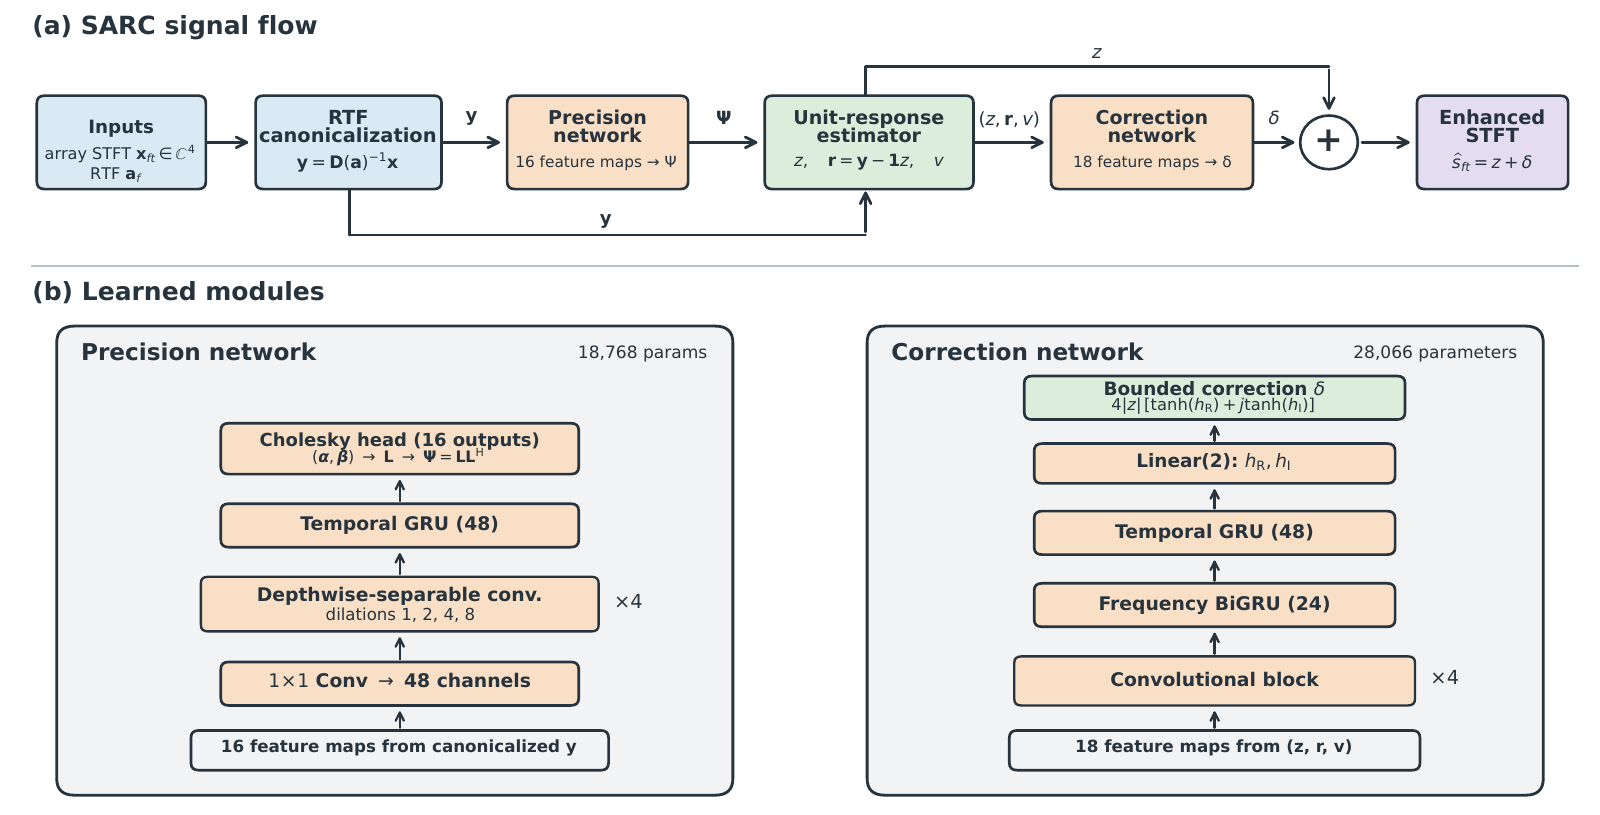
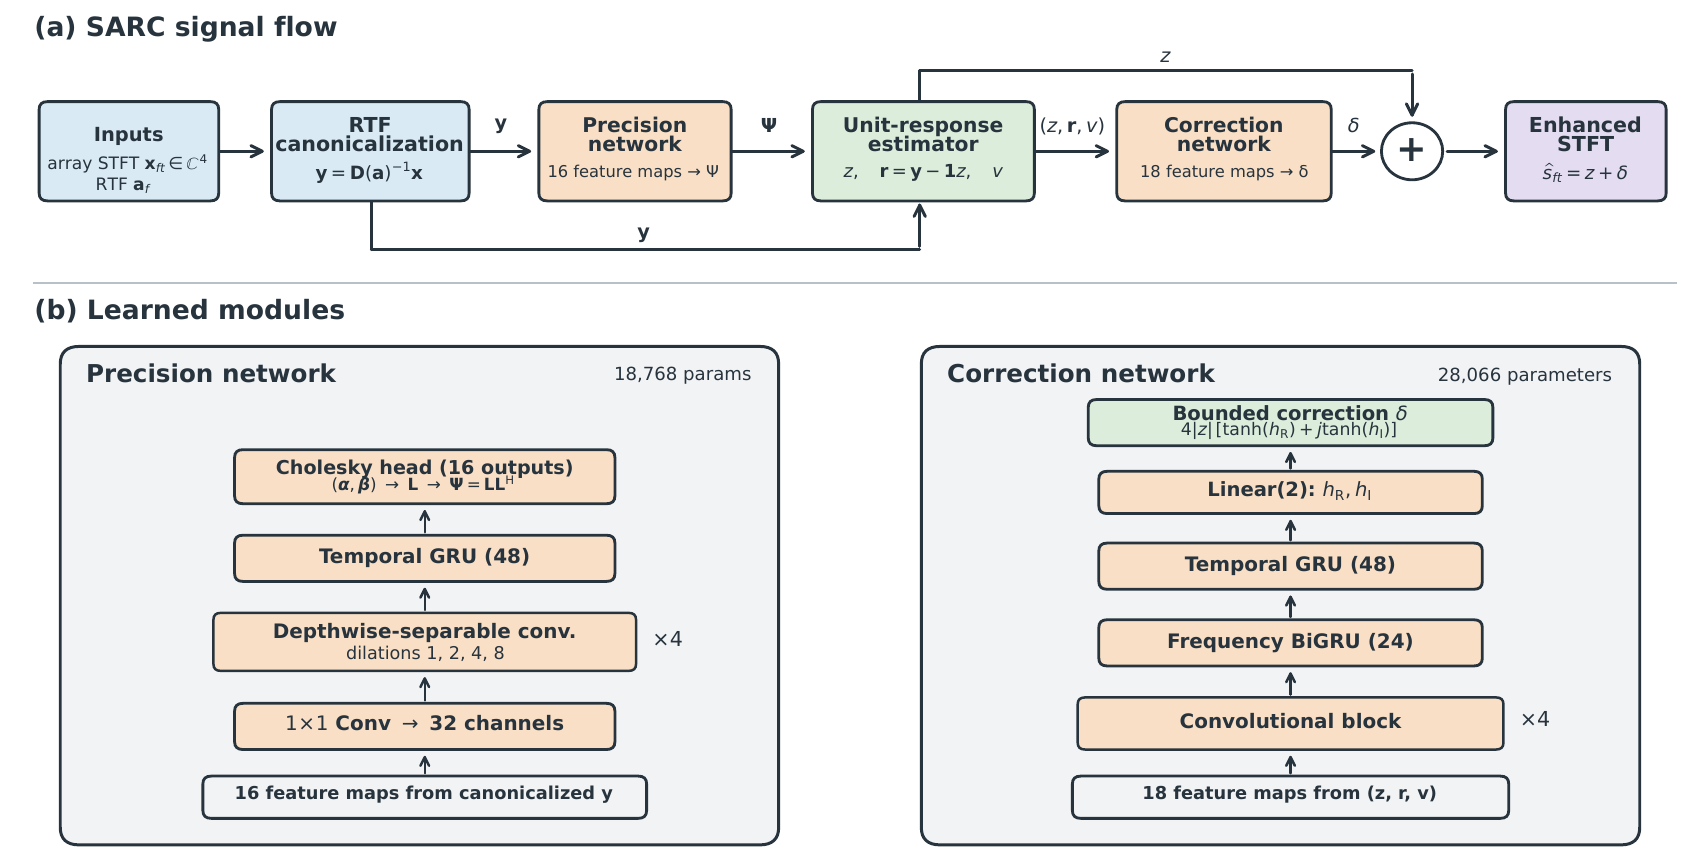
Clarify SARC architecture and research release; validate checkpoint and training interfaces

diff --git a/tests/test_release.py b/tests/test_release.py
@@ -1,0 +1,90 @@
+"""Public-release checks; no private audio or calibration files are required."""
+import hashlib
+import importlib.util
+import io
+import json
+from contextlib import redirect_stderr
+from pathlib import Path
+import unittest
+from unittest.mock import patch
+
+import torch
+
+from sarc import SARC, STFTConfig, load_sarc, make_window, stft, istft
+
+ROOT = Path(__file__).resolve().parents[1]
+
+
+class TestRelease(unittest.TestCase):
+    @classmethod
+    def setUpClass(cls):
+        cls.threads = torch.get_num_threads()
+        torch.set_num_threads(1)
+
+    @classmethod
+    def tearDownClass(cls):
+        torch.set_num_threads(cls.threads)
+
+    def test_exact_architecture(self):
+        model = SARC(torch.ones(257, 4, dtype=torch.complex64))
+        spatial, correction = model.spatial_model, model.score_model
+        self.assertEqual(spatial.input_projection.weight.shape, (32, 16, 1, 1))
+        self.assertEqual(spatial.gru.hidden_size, 48)
+        self.assertEqual(spatial.parameter_count(), 18768)
+        self.assertEqual(sum(p.numel() for p in correction.parameters()), 28066)
+        self.assertEqual(correction.input_projection.weight.shape, (32, 18, 1, 1))
+        self.assertEqual(correction.frequency_gru.hidden_size, 24)
+        self.assertTrue(correction.frequency_gru.bidirectional)
+        self.assertEqual(correction.frequency_projection.weight.shape, (32, 48))
+        self.assertEqual(correction.temporal_gru.hidden_size, 48)
+        self.assertEqual(correction.head.weight.shape, (2, 48))
+
+    def test_all_frozen_checkpoints_and_outputs(self):
+        expected = json.loads((ROOT / 'results/table1_sarc_verification.json').read_text())
+        torch.manual_seed(927)
+        mixture = torch.randn(1, 4, 257, 5, dtype=torch.complex64) * .03
+        for name, digest in expected['checkpoint_sha256'].items():
+            with self.subTest(checkpoint=name):
+                path = ROOT / 'checkpoints' / name
+                self.assertEqual(hashlib.sha256(path.read_bytes()).hexdigest(), digest)
+                model, _ = load_sarc(path)
+                with torch.no_grad():
+                    output = model(mixture)
+                    quiet = model(torch.zeros_like(mixture))
+                self.assertTrue(all(torch.isfinite(t).all() for t in output.values()))
+                self.assertTrue(all(torch.isfinite(t).all() for t in quiet.values()))
+                bound = 4 * output['spatial_mean'].abs().clamp_min(1e-8)
+                self.assertTrue((output['correction'].real.abs() <= bound + 1e-7).all())
+                self.assertTrue((output['correction'].imag.abs() <= bound + 1e-7).all())
+
+    def test_invalid_rtf(self):
+        for value in (0., float('nan'), float('inf')):
+            transfer = torch.ones(257, 4, dtype=torch.complex64)
+            transfer[0, 1] = value
+            with self.assertRaisesRegex(ValueError, 'finite and nonzero'):
+                SARC(transfer)
+
+    def test_stft_validation_and_roundtrip(self):
+        config = STFTConfig()
+        window = make_window(config, torch.device('cpu'))
+        audio = torch.randn(4, 1600) * .03
+        spec = stft(audio, window, config)
+        self.assertTrue(torch.allclose(istft(spec, window, config, 1600), audio, atol=1e-6))
+        for bad in (torch.zeros(4, 0), torch.zeros(4, 256), torch.full((4, 1600), float('nan'))):
+            with self.assertRaises(ValueError):
+                stft(bad, window, config)
+
+    def test_zero_batch_size_rejected(self):
+        spec = importlib.util.spec_from_file_location('sarc_train_cli', ROOT / 'scripts/train.py')
+        module = importlib.util.module_from_spec(spec)
+        spec.loader.exec_module(module)
+        args = ['train.py', '--train', 'train', '--validation', 'val', '--rtf', 'rtf.npy',
+                '--output', 'unused.pt', '--batch-size', '0']
+        with patch('sys.argv', args), redirect_stderr(io.StringIO()):
+            with self.assertRaises(SystemExit) as error:
+                module.parse_args()
+        self.assertEqual(error.exception.code, 2)
+
+
+if __name__ == '__main__':
+    unittest.main()

diff --git a/sarc/model.py b/sarc/model.py
@@ -83,8 +83,8 @@ class SARCSpatial(nn.Module):
             raise ValueError("target_transfer must be complex [F,M], M>=2")
         if not torch.is_complex(target_transfer):
             raise ValueError("target_transfer must be complex")
-        if torch.any(target_transfer.abs() <= 0):
-            raise ValueError("RTF entries must be nonzero")
+        if not torch.isfinite(target_transfer).all() or torch.any(target_transfer.abs() <= 0):
+            raise ValueError("RTF entries must be finite and nonzero")
         self.sensor_count = int(target_transfer.shape[1])
         self.feature_count = 3 * self.sensor_count + 4
         self.precision_parameter_count = self.sensor_count**2
@@ -135,9 +135,12 @@ class SARCSpatial(nn.Module):
         if (
             mixture.ndim != 4
             or mixture.shape[1] != self.sensor_count
+            or mixture.shape[2] != self.target_transfer.shape[0]
+            or mixture.shape[0] == 0
+            or mixture.shape[3] == 0
             or not torch.is_complex(mixture)
         ):
-            raise ValueError("mixture must be complex [B,M,F,T]")
+            raise ValueError("mixture must be complex nonempty [B,M,F,T] matching the RTF")
 
         aligned = self.target_normalize(mixture)
         value = F.leaky_relu(

diff --git a/sarc/audio.py b/sarc/audio.py
@@ -28,6 +28,12 @@ def stft(audio: torch.Tensor, window: torch.Tensor, config: STFTConfig) -> torch
     if audio.ndim != 3:
         raise ValueError("audio must have shape [M,N] or [B,M,N]")
     batch, microphones, samples = audio.shape
+    if batch == 0 or microphones == 0 or samples == 0:
+        raise ValueError("audio dimensions must be nonempty")
+    if config.center and samples <= config.n_fft // 2:
+        raise ValueError("centered reflect-padded STFT requires more than n_fft/2 samples")
+    if not audio.is_floating_point() or not torch.isfinite(audio).all():
+        raise ValueError("audio must contain finite real floating-point samples")
     spectrum = torch.stft(
         audio.reshape(batch * microphones, samples),
         n_fft=config.n_fft,

diff --git a/scripts/train.py b/scripts/train.py
@@ -40,7 +40,8 @@ def parse_args() -> argparse.Namespace:
     elif args.train.resolve() == args.validation.resolve():
         parser.error("training and validation directories must differ")
     if min(args.spatial_updates, args.correction_updates, args.joint_updates,
-           args.validation_every, args.validation_batches, args.batch_size or 1) < 1:
+           args.validation_every, args.validation_batches,
+           args.batch_size if args.batch_size is not None else 1) < 1:
         parser.error("update counts and batch sizes must be positive")
     return args
 

diff --git a/sarc/dataset.py b/sarc/dataset.py
@@ -32,5 +32,7 @@ class NpzWaveDataset(Dataset):
             raise ValueError(f"{self.paths[index]}: mixture must have shape [4,N]")
         if target.ndim != 1 or target.shape[0] != mixture.shape[1]:
             raise ValueError(f"{self.paths[index]}: target must have shape [N]")
+        if target.size == 0 or not np.isfinite(mixture).all() or not np.isfinite(target).all():
+            raise ValueError(f"{self.paths[index]}: waveforms must be nonempty and finite")
         return torch.from_numpy(mixture), torch.from_numpy(target)
 

diff --git a/sarc/checkpoint.py b/sarc/checkpoint.py
@@ -13,7 +13,7 @@ def load_sarc(
     checkpoint_path: str | Path,
     device: torch.device | str = "cpu",
 ) -> tuple[SARC, dict]:
-    checkpoint = torch.load(checkpoint_path, map_location="cpu", weights_only=False)
+    checkpoint = torch.load(checkpoint_path, map_location="cpu", weights_only=True)
     if "target_transfer" not in checkpoint or "model_state" not in checkpoint:
         raise ValueError("checkpoint must contain target_transfer and model_state")
     model = SARC(checkpoint["target_transfer"], freeze_spatial=False)

diff --git a/README.md b/README.md
@@ -4,12 +4,37 @@ This repository contains the PyTorch implementation and frozen checkpoints for
 **Structured Analytic-Residual Correction (SARC)**, a lightweight calibrated
 four-microphone speech-enhancement method.
 
+**Authors:** Gurui Jin, Xiao-Ping Zhang, Le Xiao, Yue Wang, and Zhenyu Liu.
+This is a research manuscript and code release; no publication or acceptance is claimed.
+
+## Background and problem
+
+Spatial filtering can preserve a calibrated target response while leaving
+residual interference. A neural post-filter receiving only its single-channel
+output cannot directly examine inter-channel differences. SARC provides
+spatial residuals that cancel the modeled target as references for correction.
+
+For one time-frequency bin, the calibrated observation model is
+
+$$x_m=a_m s+n_m, \qquad y_m=x_m/a_m=s+\eta_m.$$
+
+Here $a_m$ is the target RTF, $s$ is the reference-channel target, and $n_m$
+is interference. Alignment makes the modeled target common across microphones,
+not their interference. The input is synchronized four-channel speech at
+16 kHz with a matching fixed target calibration; the output is enhanced mono speech.
+
+## Proposed method
+
 SARC first divides out a fixed frontal relative transfer function (RTF), so
 the modeled target is common across microphones. A precision network produces a
 Hermitian positive-definite matrix and an analytic unit-response estimate `z`.
 The spatial residual `r = y - 1z` exposes channel-to-channel nuisance differences
 to guide correction of interference remaining in `z`. A second network uses `(z, r, v)` to
 predict a bounded complex correction, and the enhanced STFT is `z + delta`.
+
+The target-preserving constraint applies to the analytic estimate, not a
+guarantee that the final neural output is distortion-free. Calibration mismatch
+can leave target leakage in the residuals.
 
 ![SARC architecture](paper/sarc_architecture.png)
 
@@ -22,18 +47,25 @@ parameters. Machine-readable tables are available in [`results/`](results/).
 
 ## Architecture and runtime
 
-The architecture uses single convolution blocks marked ×4, feature-map labels,
-and the precision factorization `Psi = L L^H`.
+| Module | Dimensions | Parameters |
+| --- | --- | ---: |
+| Precision network | 16 features; convolution width **32**; temporal GRU hidden size **48**; 16-output Cholesky head | 18,768 |
+| Correction network | 18 features; convolution width **32**; frequency BiGRU **24 per direction**; temporal GRU **48**; 2-output linear head | 28,066 |
+| Total | Four-channel model | **46,834** |
 
-The precision and correction networks contain 18,768 and 28,066 trainable
-parameters, respectively. These are parameter counts, not storage units.
-The bidirectional GRU operates along frequency, not future time frames.
+Both networks use four convolutional blocks with temporal dilations 1, 2, 4, 8.
+The bidirectional GRU operates along frequency, not future time frames. Its
+48-dimensional output is projected to 32 channels and added to its input before
+the temporal GRU. See [architecture details](docs/ARCHITECTURE.md).
+The released correction is scaled by `4 * max(abs(z), 1e-8)`, not `sqrt(v)`.
 
 Table 1 includes CPU and GPU full-utterance runtimes; see
 [`docs/RUNTIME.md`](docs/RUNTIME.md) for the protocol and limitations.
 These are implementation timings, not proof of real-time streaming deployment.
 
 ## Installation
+
+Use Python 3.10 or later. The original experiments used PyTorch 2.5.1.
 
 ```bash
 git clone https://github.com/jgr2021/SARC.git
@@ -57,6 +89,10 @@ python scripts/infer.py input_4ch.wav enhanced.wav \
 The fixed RTF is stored in the checkpoint. The command writes a mono
 floating-point WAV file.
 
+This script processes whole files; it is not a stateful streaming implementation.
+For a different array or acoustic calibration, obtain a matching target RTF and
+retrain instead of assuming that the frozen model transfers.
+
 ## Verification
 
 ```bash
@@ -64,8 +100,9 @@ python -m unittest discover -s tests -v
 python scripts/inspect_checkpoint.py checkpoints/sarc_seed1.pt
 ```
 
-The tests check the 46,834-parameter count, unit-response constraint, and the
-lossless identity between the canonicalized observation and `(z, r)`.
+Tests check architecture dimensions, parameter counts, released checkpoint
+hashes and loading, finite inference, analytic constraints, and training
+regression values. They do not replace a full benchmark or from-scratch retraining.
 
 ## Repository structure
 
@@ -108,5 +145,15 @@ interface and the limits of retraining from pre-rendered NPZ pairs.
 
 If you use SARC in your research, please cite:
 
-> G. Jin, X.-P. Zhang, L. Xiao, Y. Wang, and Z. Liu, “SARC: Structured Analytic-Residual Correction for Lightweight Multichannel Speech Enhancement,” manuscript submitted to Signal Processing Letters, 2026.
+> G. Jin, X.-P. Zhang, L. Xiao, Y. Wang, and Z. Liu, “SARC: Structured Analytic-Residual Correction for Lightweight Multichannel Speech Enhancement,” research manuscript, 2026.
+
+```bibtex
+@unpublished{jin2026sarc,
+  author = {Jin, Gurui and Zhang, Xiao-Ping and Xiao, Le and Wang, Yue and Liu, Zhenyu},
+  title = {{SARC}: Structured Analytic-Residual Correction for Lightweight Multichannel Speech Enhancement},
+  year = {2026},
+  note = {Research manuscript},
+  url = {https://github.com/jgr2021/SARC}
+}
+```
 

diff --git a/docs/ARCHITECTURE.md b/docs/ARCHITECTURE.md
@@ -1,0 +1,50 @@
+# Architecture matched to the released checkpoints
+
+Input complex STFT: `[B, 4, F, T]`; enhanced STFT: `[B, F, T]`.
+At 16 kHz the 512-point FFT gives `F = 257`.
+
+## Precision network: 18,768 parameters
+
+- 16 real-valued feature maps from the RTF-aligned observation.
+- 1×1 convolution: **16 → 32**, followed by leaky ReLU.
+- Four residual depthwise-separable convolutional blocks, width **32**,
+  3×3 kernels and temporal dilations 1, 2, 4, 8. Padding is left-only in time.
+- Unidirectional temporal GRU: input **32**, hidden **48**, independently per frequency.
+- Linear head: **48 → 16** real coordinates for a complex 4×4 Cholesky factor.
+- Deterministic positive-definite weighting, analytic estimate, spatial residuals
+  and residual-derived scale. These operations have no trainable parameters.
+
+**The convolution width is 32, not 48.** The number 48 belongs to the temporal
+GRU. The corrected illustration reflects the checkpoint, not a model change.
+
+## Correction network: 28,066 parameters
+
+- 18 real-valued feature maps: six scalar maps from `(z, v)` and 12 from `r`.
+- 1×1 convolution: **18 → 32**, leaky ReLU, then four convolutional blocks as above.
+- Frequency-axis BiGRU: input **32**, hidden **24 per direction**, concatenated output **48**.
+- Linear frequency projection: **48 → 32**, added to the pre-BiGRU representation.
+- Unidirectional temporal GRU: input **32**, hidden **48**.
+- Linear head: **48 → 2**, producing the real coordinates `h_real, h_imag`.
+- Cartesian bounded correction:
+  `delta = 4 * max(abs(z), 1e-8) * (tanh(h_real) + j*tanh(h_imag))`.
+  Each Cartesian component is bounded by `4 * max(abs(z), 1e-8)`;
+  the complex magnitude bound is larger by a factor of `sqrt(2)`.
+
+The diagram is a compact overview; the input projection and frequency
+projection/residual connection in the correction branch are detailed here.
+The two output coordinates are not magnitude and phase.
+
+## Interpretation and implementation boundaries
+
+- `z`, `r` and `delta` are complex. `v` is a positive conditioning scale.
+- `likelihood_variance` is a checkpoint-compatible internal key for `v`,
+  not a claim of exact posterior variance.
+- The raw identity `y_m = z + r_m` preserves the aligned observation.
+  This does not imply every normalized/clipped feature map is invertible.
+- The analytic unit-response constraint preserves the modeled target under
+  matching calibration. Neural correction is not itself distortionless.
+- Neural operations do not access future time frames, but the public audio
+  path uses centered STFT and whole-file inference. Frequency bidirectionality
+  is not temporal lookahead; whole-file speed is not deployment latency.
+- Numerical floors and bounded features remain part of the implementation,
+  even where compact manuscript equations omit them.

diff --git a/docs/RELEASE_CHECK_20260927.md b/docs/RELEASE_CHECK_20260927.md
@@ -1,0 +1,35 @@
+# Release check — 2026-09-27
+
+This maintenance update does not change the trained weights, architecture,
+loss formulas, training schedule, or reported benchmark values.
+
+## Checks performed
+
+- All 13 unittest cases passed with PyTorch 2.5.1+cu124 on CPU.
+- All three checkpoint SHA-256 hashes match the existing Table 1 verification record.
+- All three checkpoints load with `strict=True` and restricted
+  `torch.load(..., weights_only=True)`.
+- Precision and correction parameter counts are 18,768 and 28,066.
+- Every model output tensor is bitwise equal to the pre-update model on a
+  seeded synthetic complex input for each of the three checkpoints.
+- Silent-input inference produces finite outputs; the Cartesian correction
+  bounds hold on the tested synthetic inputs.
+- Existing loss-value and staged-training regression tests still pass.
+- A synthetic-data CLI smoke test passed: one update in each training stage,
+  best-checkpoint saving, restricted checkpoint reload, and finite mono WAV
+  inference with the expected length and sampling rate. This checks workflow
+  execution only, not enhancement quality or convergence.
+
+## Corrections
+
+- The architecture illustration now labels precision convolution width as
+  **32**, while its temporal GRU remains **48**.
+- Documented frequency BiGRU hidden size **24 per direction**, 48-to-32
+  projection, residual addition and the final two-coordinate linear head.
+- Added explicit invalid-RTF, audio and frequency-shape checks.
+- Rejected `--batch-size 0` instead of silently selecting the default.
+- Removed obsolete submission-status wording and added manuscript BibTeX.
+
+This is a software regression check, not a new complete training run or a
+remeasurement of Table 1 quality/runtime. The original restricted benchmark
+is still not independently reconstructible from the public release.

diff --git a/docs/DATA.md b/docs/DATA.md
@@ -45,8 +45,9 @@ in this release; downloading an arbitrary LibriSpeech subset will not recreate
 the exact original training stream.
 
 The released [training script](../scripts/train.py) accepts pre-rendered NPZ
-pairs. It is a public retraining interface, not the original confidential
-online data generator.
+pairs or a user-supplied online STFT batch factory. These are public retraining
+interfaces, not the original confidential online data generator; see
+[the factory contract](REPRODUCIBILITY.md#online-data-boundary).
 
 ## 3. Fixed evaluation set
 
